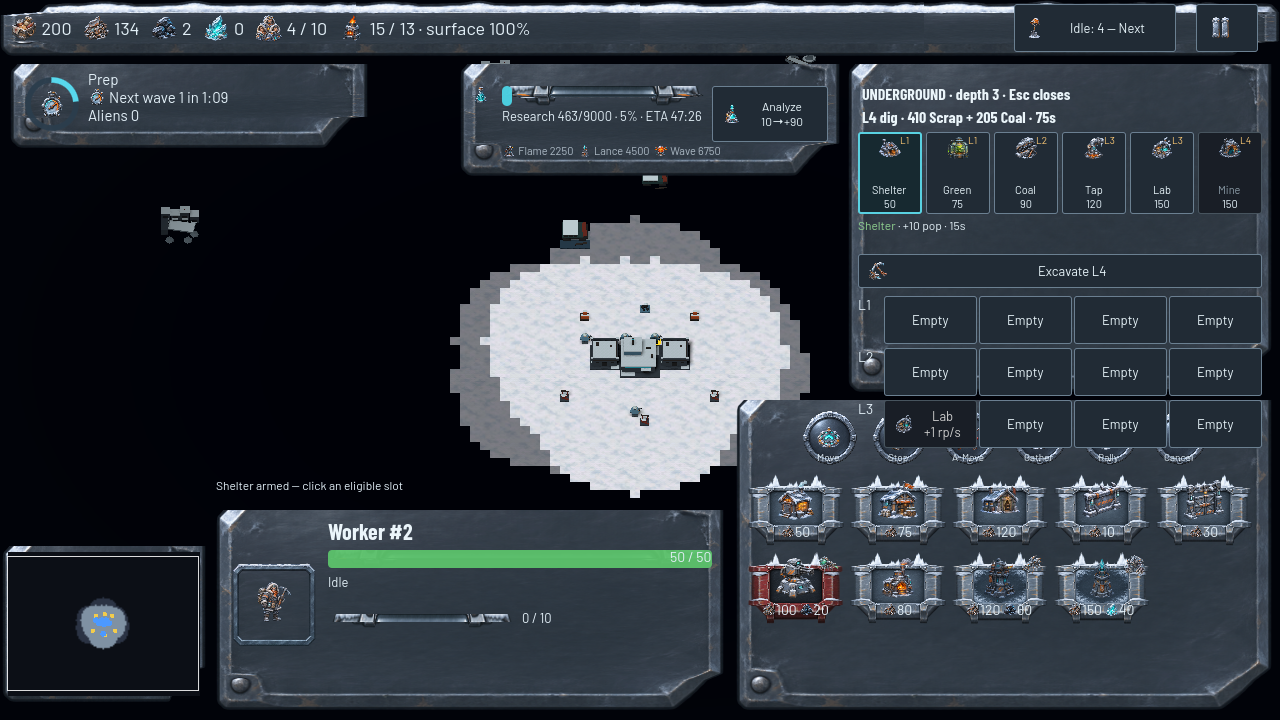
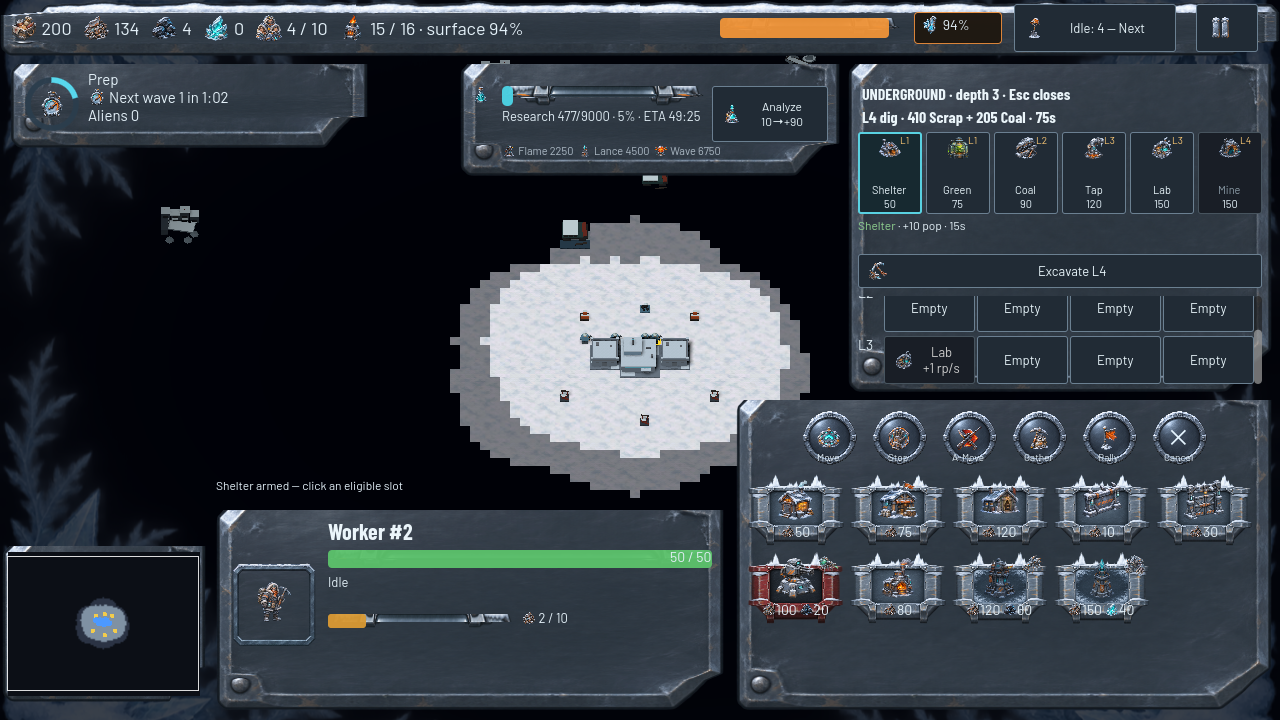
fix(hpa-698): clip underground rows clear of the command card
Size the drawer ScrollContainer to its real local bounds, force clipping and
assert the scroll viewport, visible L3 row and real order-control clicks stay
clear of the command card. Scroll L3 fully into view in the smoke, refresh the
L3 frame and record the actual one-and-three-quarter-row scroll tradeoff.

diff --git a/docs/superpowers/evidence/2026-11-09-hpa-698-frostline-hud/README.md b/docs/superpowers/evidence/2026-11-09-hpa-698-frostline-hud/README.md
@@ -14,6 +14,6 @@ manufactured and no approved mockup is committed here.
 | `hpa-698-cold-incoming-warning-1280x720.png` | Temporary real-input driver (deleted before commit): real Start click, worker gather and Barracks/Bunkhouse/GunTurret build-tile placement, then the authored 30 s North wave warning on the 15/16 (94%) cold surface |
 | `hpa-698-barracks-five-sockets-1280x720.png` | `economy_smoke_test` real Barracks Guard + Rifleman FIFO |
 | `hpa-698-fifo-overflow-chip-1280x720.png` | `economy_smoke_test` six real Worker clicks: five sockets + `+1` overflow |
-| `hpa-698-underground-l3-lab-dig-1280x720.png` | `underground_smoke_test` paid L3, completed Lab, three visible level rows, Excavate L4; the reflowed drawer ends above the command card |
+| `hpa-698-underground-l3-lab-dig-1280x720.png` | `underground_smoke_test` paid L3, completed Lab, L3 scrolled fully into view, Excavate L4; the 88 px scroll viewport shows about one and three-quarter level rows at a time, and the command card below is fully visible |
 | `hpa-698-result-defeat-1280x720.png` | `combat_lifecycle_smoke_test` real alien-caused Defeat |
 | `hpa-698-result-victory-presentation-probe-1280x720.png` | **Presentation only.** The existing `combat_lifecycle_smoke_test` both-winner probe calls `HUD.refresh_session("Result", 1)` with the controller paused for the capture; it is not a gameplay victory. A genuine gameplay Victory was not verified during QA; this frame verifies presentation only. |
